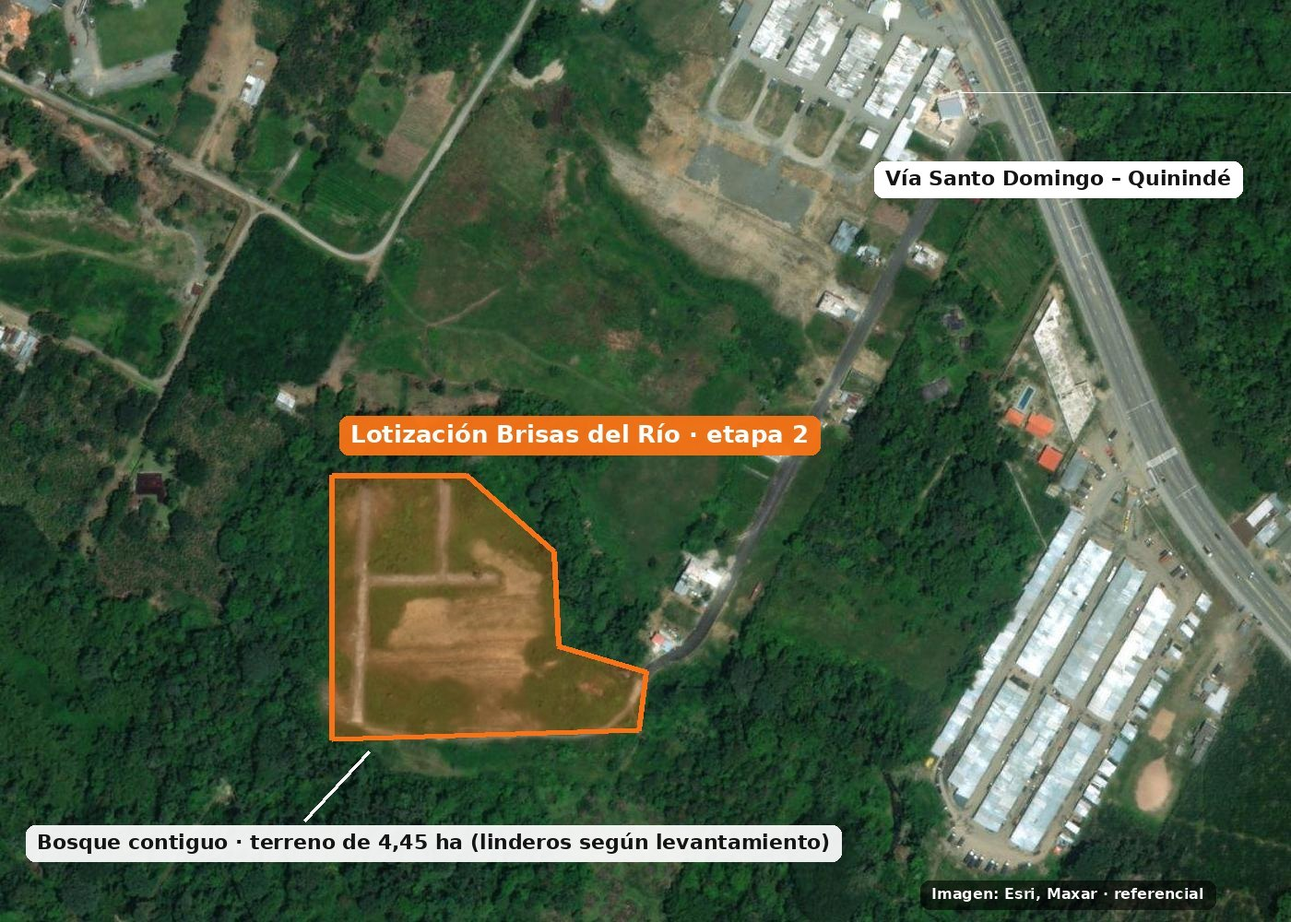
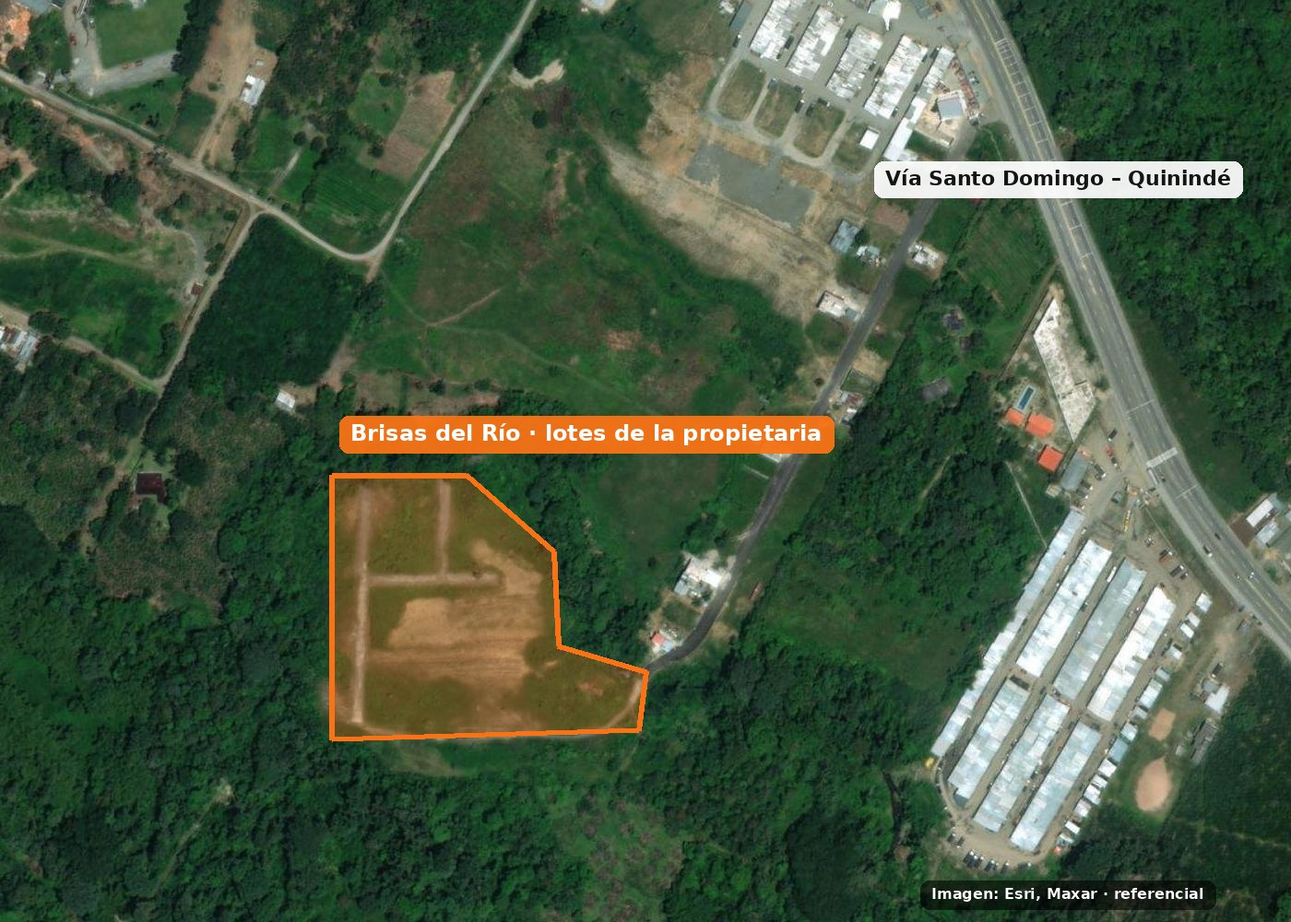
Constructores: 25 casas, sin dibujo, satelital actualizado
Claude-Session: https://claude.ai/code/session_01LAutxU6Rea3FeNJzKxbLiz

Changed region(s): [[0.0, 0.837, 0.6757, 0.961], [0.2764, 0.434, 0.645, 0.496]]

diff --git a/assets/constructores-DcApklXl.js b/assets/constructores-DcApklXl.js
@@ -1,0 +1,4 @@
+import{A as e,C as t,D as n,E as r,F as i,I as a,L as o,M as s,N as c,O as l,P as u,S as d,T as f,_ as p,a as ee,b as m,c as h,d as g,f as _,g as v,h as y,i as te,j as b,k as x,l as S,m as C,n as w,o as T,p as E,r as D,s as O,t as k,u as A,v as ne,w as j,x as M,y as N}from"./alert-DtUDTtHU.js";import{t as re}from"./house-v-FLwWWV.js";var P=o(a(),1),F={...P},I=F.useInsertionEffect,ie=I&&I!==F.useLayoutEffect?I:e=>e();function L(e){let t=u(ae).current;return t.next=e,ie(t.effect),t.trampoline}function ae(){let e={next:void 0,callback:oe,trampoline:(...t)=>e.callback?.(...t),effect:()=>{e.callback=e.next}};return e}function oe(){}var R=typeof document<`u`?P.useLayoutEffect:()=>{};function se(e,t){return function(n,...r){let i=new URL(e);return i.searchParams.set(`code`,n.toString()),r.forEach(e=>i.searchParams.append(`args[]`,e)),`${t} error #${n}; visit ${i} for the full message.`}}var ce=se(`https://base-ui.com/production-error`,`Base UI`),z={name:`badge-dollar-sign`,size:24,node:[[`path`,{d:`M3.85 8.62a4 4 0 0 1 4.78-4.77 4 4 0 0 1 6.74 0 4 4 0 0 1 4.78 4.78 4 4 0 0 1 0 6.74 4 4 0 0 1-4.77 4.78 4 4 0 0 1-6.75 0 4 4 0 0 1-4.78-4.77 4 4 0 0 1 0-6.76Z`,key:`3c2336`}],[`path`,{d:`M16 8h-6a2 2 0 1 0 0 4h4a2 2 0 1 1 0 4H8`,key:`1h4pet`}],[`path`,{d:`M12 18V6`,key:`zqpxq5`}]]};z.node;var le=M(z),B={name:`calendar-clock`,size:24,node:[[`path`,{d:`M16 14v2.2l1.6 1`,key:`fo4ql5`}],[`path`,{d:`M16 2v3`,key:`otl347`}],[`path`,{d:`M21 7.338V5a2 2 0 00-2-2H5a2 2 0 00-2 2v14a2 2 0 002 2h2.338`,key:`7hb8p4`}],[`path`,{d:`M3 9h5.859`,key:`numkqi`}],[`path`,{d:`M8 2v3`,key:`1ioesn`}],[`circle`,{cx:`16`,cy:`16`,r:`6`,key:`qoo3c4`}]]};B.node;var V=M(B),H={name:`hammer`,size:24,node:[[`path`,{d:`m15 12-9.373 9.373a1 1 0 0 1-3.001-3L12 9`,key:`1hayfq`}],[`path`,{d:`m18 15 4-4`,key:`16gjal`}],[`path`,{d:`m21.5 11.5-1.914-1.914A2 2 0 0 1 19 8.172v-.344a2 2 0 0 0-.586-1.414l-1.657-1.657A6 6 0 0 0 12.516 3H9l1.243 1.243A6 6 0 0 1 12 8.485V10l2 2h1.172a2 2 0 0 1 1.414.586L18.5 14.5`,key:`15ts47`}]]};H.node;var ue=M(H),U={name:`hard-hat`,size:24,node:[[`path`,{d:`M10 10V5a1 1 0 0 1 1-1h2a1 1 0 0 1 1 1v5`,key:`1p9q5i`}],[`path`,{d:`M14 6a6 6 0 0 1 6 6v3`,key:`1hnv84`}],[`path`,{d:`M4 15v-3a6 6 0 0 1 6-6`,key:`9ciidu`}],[`rect`,{x:`2`,y:`15`,width:`20`,height:`4`,rx:`1`,key:`g3x8cw`}]]};U.node;var de=M(U),W={name:`key-round`,size:24,node:[[`path`,{d:`M2.586 17.414A2 2 0 0 0 2 18.828V21a1 1 0 0 0 1 1h3a1 1 0 0 0 1-1v-1a1 1 0 0 1 1-1h1a1 1 0 0 0 1-1v-1a1 1 0 0 1 1-1h.172a2 2 0 0 0 1.414-.586l.814-.814a6.5 6.5 0 1 0-4-4z`,key:`1s6t7t`}],[`circle`,{cx:`16.5`,cy:`7.5`,r:`.5`,fill:`currentColor`,key:`w0ekpg`}]]};W.node;var fe=M(W),G={name:`ruler`,size:24,node:[[`path`,{d:`M21.3 15.3a2.4 2.4 0 0 1 0 3.4l-2.6 2.6a2.4 2.4 0 0 1-3.4 0L2.7 8.7a2.41 2.41 0 0 1 0-3.4l2.6-2.6a2.41 2.41 0 0 1 3.4 0Z`,key:`icamh8`}],[`path`,{d:`m14.5 12.5 2-2`,key:`inckbg`}],[`path`,{d:`m11.5 9.5 2-2`,key:`fmmyf7`}],[`path`,{d:`m8.5 6.5 2-2`,key:`vc6u1g`}],[`path`,{d:`m17.5 15.5 2-2`,key:`wo5hmg`}]]};G.node;var pe=M(G),K={name:`shield-check`,size:24,node:[[`path`,{d:`M20 13c0 5-3.5 7.5-7.66 8.95a1 1 0 0 1-.67-.01C7.5 20.5 4 18 4 13V6a1 1 0 0 1 1-1c2 0 4.5-1.2 6.24-2.72a1.17 1.17 0 0 1 1.52 0C14.51 3.81 17 5 19 5a1 1 0 0 1 1 1z`,key:`oel41y`}],[`path`,{d:`m9 12 2 2 4-4`,key:`dzmm74`}]]};K.node;var me=M(K),q={name:`trees`,size:24,node:[[`path`,{d:`M10 10v.2A3 3 0 0 1 8.9 16H5a3 3 0 0 1-1-5.8V10a3 3 0 0 1 6 0Z`,key:`1l6gj6`}],[`path`,{d:`M7 16v6`,key:`1a82de`}],[`path`,{d:`M13 19v3`,key:`13sx9i`}],[`path`,{d:`M12 19h8.3a1 1 0 0 0 .7-1.7L18 14h.3a1 1 0 0 0 .7-1.7L16 9h.2a1 1 0 0 0 .8-1.7L13 3l-1.4 1.5`,key:`1sj9kv`}]]};q.node;var he=M(q),ge=`data-valid`,_e=`data-invalid`,ve={badInput:!1,customError:!1,patternMismatch:!1,rangeOverflow:!1,rangeUnderflow:!1,stepMismatch:!1,tooLong:!1,tooShort:!1,typeMismatch:!1,valid:null,valueMissing:!1},ye={disabled:!1,valid:null,touched:!1,dirty:!1,filled:!1,focused:!1},be={valid(e){return e===null?null:e?{[ge]:``}:{[_e]:``}}},xe={invalid:void 0,name:void 0,validityData:{state:ve,errors:[],error:``,value:``,initialValue:null},setValidityData:c,disabled:void 0,setTouched:c,setDirty:c,setFilled:c,setFocused:c,focusOwnerRef:{current:void 0},validationMode:`onSubmit`,shouldValidateOnChange:()=>!1,state:ye,registerFieldControl:c,validation:{getValidationProps:(e,t=s)=>t,inputRef:{current:null},registeredInputs:new Map,registerInput:c,getInputControl:()=>null,commit:async()=>{},change:c}},Se=P.createContext(xe);function J(e=!0){let t=P.useContext(Se);if(t.setValidityData===c&&!e)throw Error(ce(28));return t}var Ce=P.createContext({elementRef:{current:null},formRef:{current:{fields:new Map}},errors:{},clearErrors:c,validationMode:`onSubmit`,submitCountRef:{current:0}});function we(){return P.useContext(Ce)}function Te(){let[,e]=P.useState({});return P.useCallback(()=>{e({})},[])}var Ee=0;function De(e,t=`mui`){let n=P.useRef(void 0),r=Te(),i=e??n.current;return P.useEffect(()=>{n.current??(Ee+=1,n.current=`${t}-${Ee}`,e??r())},[e,t,r]),i}var Oe=F.useId;function ke(e,t){if(Oe!==void 0){let n=Oe();return e??(t?`${t}-${n}`:n)}return De(e,t)}function Ae(e){return ke(e,`base-ui`)}var je=P.createContext({controlId:void 0,registerControlId:c,resetControlId:c,labelId:void 0,setLabelId:c,messageIds:[],setMessageIds:c,getDescriptionProps:e=>e});function Me(){return P.useContext(je)}function Ne(e={}){let{id:t,enabled:n=!0}=e,{controlId:r,registerControlId:i,resetControlId:a}=Me(),o=Ae(),s=u(()=>Symbol()),l=P.useRef(!1),d=P.useRef(!1),f=L(()=>{l.current&&i!==c&&(l.current=!1,i(s.current,void 0))});return R(()=>{if(!n||i===c){f();return}let e;if(t!==void 0)d.current=!0,e=t;else if(d.current)e=o;else{a();return}e===void 0?f():(l.current=!0,i(s.current,e))},[t,n,i,a,o,s,f]),R(()=>f,[f]),(n?r:void 0)??t??o}function Pe(e){P.useEffect(e,b)}var Y=0,Fe=class e{static create(){return new e}currentId=Y;start(e,t){this.clear(),this.currentId=setTimeout(()=>{this.currentId=Y,t()},e)}isStarted(){return this.currentId!==Y}clear=()=>{this.currentId!==Y&&(clearTimeout(this.currentId),this.currentId=Y)};disposeEffect=()=>this.clear};function Ie(){let e=u(Fe.create).current;return Pe(e.disposeEffect),e}function Le(e,t,n){let{setFocused:r,focusOwnerRef:i}=J(),a=L(t=>{(t?!e:i.current===a)&&(i.current=t&&a,n?.(t),r(t))});return R(()=>{let e=t.current;return e?.getRootNode()?.activeElement===e&&a(!0),()=>a(!1)},[e,t,a]),a}function Re(e,t,n,r,i=!0,a){let{registerFieldControl:o}=J(),s=u(()=>Symbol());R(()=>{let c=s.current;i?o(c,{controlRef:e,getValue:r,id:t,name:a,value:n}):o(c,void 0)},[e,i,r,t,a,o,s,n]),R(()=>{let e=s.current;return()=>{o(e,void 0)}},[o,s])}function ze(e,t){let n=P.useRef(e),r=L(t);R(()=>{n.current!==e&&r(n.current),n.current=e},[e,r])}function Be(e,t,n,r){let i=!1,a=!1,o=r??s;return{reason:e,event:t??new Event(`base-ui`),cancel(){i=!0},allowPropagation(){a=!0},get isCanceled(){return i},get isPropagationAllowed(){return a},trigger:n,...o}}var Ve=`none`,He=P.forwardRef(function(t,n){let{render:r,className:i,id:a,name:o,value:s,disabled:c=!1,onValueChange:l,defaultValue:u,autoFocus:d=!1,style:f,...p}=t,{state:ee,name:m,disabled:h,setTouched:g,setDirty:_,validityData:v,setFilled:y,validationMode:te,validation:b}=J(),{clearErrors:x,elementRef:S,submitCountRef:C}=we(),w=h||c,T=m??o,E={...ee,disabled:w},{labelId:D}=Me(),O=Ne({id:a}),k=s!==void 0,A=s==null?void 0:String(s),ne=L(()=>b.inputRef.current?.value);Re(b.inputRef,O,A,ne,!w,o),R(()=>{let e=A??b.inputRef.current?.value;e!==void 0&&y(e!==``)},[A,u,b.inputRef,y]),ze(A,()=>{A!==void 0&&(x(T),_(A!==(v.initialValue??``)),b.change(A))});let j=P.useRef(null),M=Le(w,j),N=Ie();return e(`input`,t,{ref:[n,j],state:E,props:[{id:O,disabled:w,name:T,ref:b.inputRef,"aria-labelledby":D,autoFocus:d,...k?{value:s}:{defaultValue:u},onChange(e){let t=e.currentTarget.value,n=Be(Ve,e.nativeEvent);l?.(t,n),k||(_(t!==(v.initialValue??``)),y(t!==``),!e.nativeEvent.defaultPrevented&&!n.isCanceled&&(x(T),b.change(t)))},onFocus(){M(!0)},onBlur(e){if(g(!0),M(!1),te===`onBlur`){let t=e.currentTarget.value;b.commit(t),k&&queueMicrotask(()=>{let e=b.inputRef.current?.value;e!==void 0&&e!==t&&e!==(v.initialValue??``)&&b.commit(e)})}},onKeyDown(e){if(e.currentTarget.tagName===`INPUT`&&e.key===`Enter`){g(!0);let t=e.currentTarget.value,n=e.currentTarget.form;if(n&&n===S.current&&!e.defaultPrevented){let t=e.currentTarget,n=C.current;N.start(0,()=>{C.current===n&&b.commit(t.value)})}else b.commit(t)}}},p,e=>b.getValidationProps(w,e)],stateAttributesMapping:be})}),X=n(),Ue=P.forwardRef(function(e,t){return(0,X.jsx)(He,{ref:t,...e})}),We=i();function Z({className:e,type:t,...n}){return(0,X.jsx)(Ue,{type:t,"data-slot":`input`,className:x(`h-8 w-full min-w-0 rounded-lg border border-input bg-transparent px-2.5 py-1 text-base transition-colors outline-none file:inline-flex file:h-6 file:border-0 file:bg-transparent file:text-sm file:font-medium file:text-foreground placeholder:text-muted-foreground focus-visible:border-ring focus-visible:ring-3 focus-visible:ring-ring/50 disabled:pointer-events-none disabled:cursor-not-allowed disabled:bg-input/50 disabled:opacity-50 aria-invalid:border-destructive aria-invalid:ring-3 aria-invalid:ring-destructive/20 md:text-sm dark:bg-input/30 dark:disabled:bg-input/80 dark:aria-invalid:border-destructive/50 dark:aria-invalid:ring-destructive/40`,e),...n})}function Ge({className:e,...t}){return(0,X.jsx)(`textarea`,{"data-slot":`textarea`,className:x(`flex field-sizing-content min-h-16 w-full rounded-lg border border-input bg-transparent px-2.5 py-2 text-base transition-colors outline-none placeholder:text-muted-foreground focus-visible:border-ring focus-visible:ring-3 focus-visible:ring-ring/50 disabled:cursor-not-allowed disabled:bg-input/50 disabled:opacity-50 aria-invalid:border-destructive aria-invalid:ring-3 aria-invalid:ring-destructive/20 md:text-sm dark:bg-input/30 dark:disabled:bg-input/80 dark:aria-invalid:border-destructive/50 dark:aria-invalid:ring-destructive/40`,e),...t})}function Q({className:e,...t}){return(0,X.jsx)(`label`,{"data-slot":`label`,className:x(`flex items-center gap-2 text-sm leading-none font-medium select-none group-data-[disabled=true]:pointer-events-none group-data-[disabled=true]:opacity-50 peer-disabled:cursor-not-allowed peer-disabled:opacity-50`,e),...t})}var $=`h-9 w-full rounded-lg border border-input bg-transparent px-2.5 text-sm`,Ke=[[`Área`,`≈ 72 m² de construcción, una planta, en lote de 200 m²`],[`Programa`,`3 dormitorios, 2 baños completos, sala, comedor, cocina, lavandería y garaje descubierto`],[`Estructura`,`Hormigón armado sismorresistente según NEC-15, con planos firmados por ingeniero`],[`Paredes`,`Bloque enlucido y pintado por dentro y por fuera, o sistema equivalente certificado`],[`Cubierta`,`Losa o cubierta metálica con aislamiento térmico y cielo raso, apta para lluvia intensa`],[`Pisos y baños`,`Cerámica en toda la casa; antideslizante en zonas húmedas; ducha con punto de agua caliente`],[`Cocina`,`Mesón con fregadero, muebles bajos, puntos para cocina y refrigeradora`],[`Carpintería`,`Puerta principal segura; ventanas de aluminio y vidrio con protección`],[`Instalaciones`,`Eléctricas con tablero y breakers, hidrosanitarias completas y medidores`],[`Exterior`,`Cerramiento frontal, acera de ingreso y patio posterior nivelado`]];function qe(){let[e,n]=(0,P.useState)({op:`B · Llave en mano integral`,cant:`Las 25 (4 tandas)`,mod:`Una planta ≈ 72 m²`}),i=t=>r=>n({...e,[t]:r.target.value});return(0,X.jsxs)(X.Fragment,{children:[(0,X.jsx)(`div`,{className:`bg-primary px-4 py-2 text-center text-xs text-primary-foreground`,children:`Convocatoria abierta · Cotizaciones hasta el lunes 7 de diciembre de 2026 · Sin costo ni obligación`}),(0,X.jsx)(v,{brand:`Residencial Aurora`,sub:`Convocatoria a constructores · Santo Domingo`,links:[[`#alcance`,`Alcance`],[`#casa`,`La casa`],[`#plazos`,`Plazos`],[`#pagos`,`Pagos`],[`#cotizar`,`Cotizar`]]}),(0,X.jsxs)(`main`,{children:[(0,X.jsx)(C,{accent:`bg-gradient-to-br from-emerald-50 via-background to-amber-50`,eyebrow:`Solicitud de cotización · RFQ-BR-2026-01`,title:`Buscamos un constructor que entregue casas buenas, a costo bajo y a tiempo.`,lead:`Hasta 25 casas de una planta, llave en mano, en lotes propios de 200 m² en la urbanización Brisas del Río, Santo Domingo de los Tsáchilas. Precio fijo por casa, fechas de entrega por tanda y garantías. Reglas iguales para todos.`,image:`img/brisas-satelite.jpg`,imageAlt:`Vista satelital de los lotes de Brisas del Río`,ctas:(0,X.jsxs)(X.Fragment,{children:[(0,X.jsx)(`a`,{href:`#cotizar`,className:N({size:`lg`}),children:`Enviar mi cotización`}),(0,X.jsx)(`a`,{href:`#proceso`,className:N({size:`lg`,variant:`outline`}),children:`Fechas del proceso`})]})}),(0,X.jsx)(ne,{items:[{icon:(0,X.jsx)(re,{className:`size-4`}),value:`25`,label:`casas en 4 tandas`},{icon:(0,X.jsx)(pe,{className:`size-4`}),value:`≈ 72 m²`,label:`una planta, 3 dormitorios`},{icon:(0,X.jsx)(he,{className:`size-4`}),value:`200 m²`,label:`lote por casa, urbanizado`},{icon:(0,X.jsx)(le,{className:`size-4`}),value:`Precio fijo`,label:`por casa terminada`},{icon:(0,X.jsx)(V,{className:`size-4`}),value:`7 dic`,label:`cierre de cotizaciones`}]}),(0,X.jsx)(p,{id:`resumen`,kicker:`El proyecto`,title:`Lo que hay que construir, en una mirada.`,children:(0,X.jsxs)(`div`,{className:`grid gap-6 md:grid-cols-2`,children:[(0,X.jsxs)(`div`,{className:`space-y-4 text-muted-foreground`,children:[(0,X.jsx)(`p`,{children:`La propietaria del terreno es la promotora: pone los lotes, organiza papeles y vende las casas. Lo técnico se contrata completo, por eso buscamos un constructor que entregue cada casa lista para escriturar.`}),(0,X.jsx)(`p`,{children:`Las casas se venden a familias con crédito de vivienda de interés social (BIESS y banca con tasa preferencial). El banco paga cuando la casa está terminada y avaluada: casas sencillas, bien hechas, con costo controlado y entrega puntual.`}),(0,X.jsxs)(k,{children:[(0,X.jsx)(de,{}),(0,X.jsx)(D,{children:`Lo que más pesa al elegir`}),(0,X.jsx)(w,{children:`Costo total por casa terminada y cumplimiento de fechas. Una oferta barata sin plazo firme no nos sirve.`})]})]}),(0,X.jsxs)(`div`,{className:`grid gap-4`,children:[(0,X.jsxs)(`figure`,{children:[(0,X.jsx)(`img`,{src:`img/brisas-satelite.jpg`,alt:`Vista satelital de los lotes de Brisas del Río`,className:`w-full rounded-xl border shadow-sm`}),(0,X.jsx)(`figcaption`,{className:`mt-2 text-xs text-muted-foreground`,children:`Vista satelital (Esri, Maxar). Perímetro aproximado de la lotización; linderos exactos según levantamiento.`})]}),(0,X.jsxs)(`figure`,{children:[(0,X.jsx)(`img`,{src:`img/plano-conjunto.jpg`,alt:`Plano general referencial del conjunto`,className:`w-full rounded-xl border shadow-sm`}),(0,X.jsx)(`figcaption`,{className:`mt-2 text-xs text-muted-foreground`,children:`Plano referencial. Lotes de la propietaria en las manzanas 4, 5 y 6.`})]})]})]})}),(0,X.jsx)(`div`,{className:`bg-muted/40`,children:(0,X.jsx)(p,{id:`alcance`,kicker:`Alcance`,title:`Qué significa «llave en mano» aquí.`,intro:`Cotice las dos opciones si puede. Si solo hace obra, cotice la A.`,children:(0,X.jsxs)(`div`,{className:`grid gap-5 md:grid-cols-2`,children:[(0,X.jsx)(y,{icon:(0,X.jsx)(ue,{className:`size-4`}),badge:`Opción A`,title:`Obra llave en mano`,desc:`La propietaria entrega planos aprobados; el constructor hace todo lo demás.`,children:(0,X.jsx)(g,{items:[`Replanteo, movimiento de tierras y cimentación según estudio de suelos`,`Estructura, mampostería, cubierta, instalaciones y acabados completos`,`Acometidas de agua, alcantarillado y luz con medidores`,`Cerramiento, limpieza final y retiro de escombros`,`Planos «como construido» y manual de uso`,`Trámites de habitabilidad o recepción municipal`]})}),(0,X.jsx)(y,{highlight:!0,icon:(0,X.jsx)(fe,{className:`size-4`}),badge:`Opción B · preferida`,title:`Llave en mano integral`,desc:`Todo lo de la opción A, más el diseño y los permisos.`,children:(0,X.jsx)(g,{items:[`Estudio de suelos y topografía de los lotes`,`Diseño arquitectónico, estructural, eléctrico e hidrosanitario (NEC)`,`Aprobación de planos y permiso de construcción en el GAD de Santo Domingo`,`Apoyo con el registro como vivienda de interés social (SIIDUVI)`,`Costo y semanas de diseño y permisos, indicados por separado`]})}),(0,X.jsx)(y,{title:`No incluye (lo pone la propietaria)`,children:(0,X.jsx)(g,{no:!0,items:[`El terreno y sus escrituras`,`La venta de las casas y la relación con compradores y bancos`,`Escrituras y gastos notariales de los compradores`]})}),(0,X.jsx)(y,{title:`Alternativa que también puede cotizar`,desc:`Casa de dos plantas de unos 105 m²: planta baja social y garaje; planta alta con 3 dormitorios y 2 baños. Cotícela aparte con el mismo formato.`})]})})}),(0,X.jsx)(p,{id:`casa`,kicker:`Especificación mínima`,title:`La casa que hay que cotizar.`,children:(0,X.jsxs)(`div`,{className:`grid gap-6 md:grid-cols-[1.4fr_1fr]`,children:[(0,X.jsx)(d,{children:(0,X.jsx)(t,{children:(0,X.jsxs)(te,{children:[(0,X.jsx)(h,{children:(0,X.jsxs)(S,{children:[(0,X.jsx)(O,{children:`Elemento`}),(0,X.jsx)(O,{children:`Mínimo exigido`})]})}),(0,X.jsx)(ee,{children:Ke.map(([e,t])=>(0,X.jsxs)(S,{children:[(0,X.jsx)(T,{className:`font-medium align-top`,children:e}),(0,X.jsx)(T,{className:`whitespace-normal text-muted-foreground`,children:t})]},e))})]})})}),(0,X.jsxs)(`div`,{className:`space-y-5`,children:[(0,X.jsxs)(`figure`,{children:[(0,X.jsx)(`img`,{src:`img/planta-un-piso.jpg`,alt:`Planta referencial de la casa`,className:`w-full rounded-xl border shadow-sm`}),(0,X.jsx)(`figcaption`,{className:`mt-2 text-xs text-muted-foreground`,children:`Planta referencial. Puede proponer una distribución más eficiente.`})]}),(0,X.jsx)(y,{title:`Por qué importa el costo`,desc:`Para que la familia acceda al crédito de interés social, la casa terminada debe avaluarse dentro de los topes del programa (2026: hasta USD 71.504,70 para el crédito BIESS al 2,99 %). Cada dólar ahorrado en obra hace la casa más vendible.`})]})]})}),(0,X.jsx)(`div`,{className:`bg-muted/40`,children:(0,X.jsx)(p,{id:`plazos`,kicker:`Plazos`,title:`Fechas de entrega claras, con multa.`,intro:`Se construye por tandas. Cada tanda arranca cuando hay compradores firmados, así nadie construye casas que no se venden.`,children:(0,X.jsxs)(`div`,{className:`grid gap-5 md:grid-cols-2`,children:[(0,X.jsxs)(d,{children:[(0,X.jsxs)(f,{children:[(0,X.jsx)(r,{children:`Plazos máximos (puede ofrecer menos)`}),(0,X.jsx)(j,{children:`Meses desde la orden de inicio. Las tandas pueden traslaparse.`})]}),(0,X.jsx)(t,{children:(0,X.jsx)(E,{unit:`mes`,total:20,rows:[{label:`Tanda 1 · 4`,start:0,end:6,note:`0–6 · incluye casa modelo`},{label:`Tanda 2 · 7`,start:4,end:10},{label:`Tanda 3 · 7`,start:8,end:14},{label:`Tanda 4 · 7`,start:12,end:18}]})})]}),(0,X.jsx)(y,{icon:(0,X.jsx)(V,{className:`size-4`}),title:`Reglas de plazo`,children:(0,X.jsx)(g,{items:[`Inicio de obra: máximo 30 días después del permiso y la orden de inicio`,`Tanda 1 entregada en 6 meses como máximo`,`Cada tanda siguiente en 6 meses desde su orden de inicio`,`Cronograma valorado por tanda como anexo del contrato`,`Multa: 1 por mil del valor de la tanda por día, tope 10 %`,`Más de 90 días de atraso: se termina el contrato y se sigue con otro`,`Prórroga solo por fuerza mayor documentada o cambios pedidos por escrito`]})})]})})}),(0,X.jsx)(p,{id:`pagos`,kicker:`Pagos y elección`,title:`Cómo se paga y cómo elegimos.`,children:(0,X.jsxs)(`div`,{className:`grid gap-5 md:grid-cols-2`,children:[(0,X.jsx)(y,{icon:(0,X.jsx)(me,{className:`size-4`}),title:`Pagos y garantías`,desc:`Condiciones de referencia; las ofertas que pidan menos anticipo o financien parte de la obra suman puntos.`,children:(0,X.jsx)(g,{items:[`Precio fijo por casa terminada, sin reajustes salvo cambios por escrito`,`Anticipo máximo del 20 % por tanda, con póliza de buen uso por el 100 %`,`Pagos mensuales contra avance certificado por un fiscalizador de la propietaria`,`Retención del 5 % hasta 6 meses después de entregar la tanda`,`Póliza de fiel cumplimiento por el 5 % de cada tanda`,`Facturas a nombre de la propietaria, pagos por transferencia`,`Diferencias: primero a mediación en CIDES`]})}),(0,X.jsxs)(`div`,{className:`grid gap-5`,children:[(0,X.jsxs)(d,{children:[(0,X.jsx)(f,{children:(0,X.jsx)(r,{children:`Peso de cada criterio`})}),(0,X.jsx)(t,{children:(0,X.jsx)(A,{rows:[{label:`Costo total`,pct:40,text:`40 %`},{label:`Plazo firme`,pct:25,text:`25 %`},{label:`Experiencia`,pct:20,text:`20 %`},{label:`Pago y garantías`,pct:15,text:`15 %`}]})})]}),(0,X.jsx)(y,{title:`Requisitos para participar`,children:(0,X.jsx)(g,{items:[`RUC activo y cumplimiento con SRI e IESS`,`Al menos 10 viviendas terminadas en 5 años, con referencias verificables`,`Ingeniero o arquitecto responsable con registro SENESCYT`,`Capacidad de emitir pólizas de anticipo y fiel cumplimiento`,`Deseable: registro de promotor en SIIDUVI`]})})]})]})}),(0,X.jsx)(`div`,{className:`bg-muted/40`,children:(0,X.jsxs)(p,{id:`proceso`,kicker:`Calendario`,title:`Fechas del proceso.`,children:[(0,X.jsx)(`div`,{className:`grid gap-3 md:grid-cols-5`,children:[[`Desde hoy`,`Convocatoria abierta`,`Visita a los lotes previa cita.`],[`Hasta 30 nov`,`Preguntas por escrito`,`Respondemos a todos por igual.`],[`7 dic 2026`,`Cierre de cotizaciones`,`Con el formulario o por correo.`],[`Semana del 14 dic`,`Comparativo y finalistas`,`Entrevista y visita a sus obras.`],[`Enero 2027`,`Decisión y contrato`,`Comunicamos el resultado a todos.`]].map(([e,n,r],i)=>(0,X.jsx)(d,{size:`sm`,children:(0,X.jsxs)(t,{className:`space-y-1`,children:[(0,X.jsx)(l,{variant:i===2?`default`:`outline`,children:e}),(0,X.jsx)(`div`,{className:`pt-2 font-medium`,children:n}),(0,X.jsx)(`div`,{className:`text-xs text-muted-foreground`,children:r})]})},n))}),(0,X.jsx)(`p`,{className:`mt-5 text-xs text-muted-foreground`,children:`Cotizar no genera obligación para ninguna parte. La propietaria puede declarar desierto el proceso. No se recibe ni entrega dinero en esta etapa.`})]})}),(0,X.jsx)(p,{id:`cotizar`,kicker:`Cotizar`,title:`Envíe su cotización.`,intro:`Llene lo que tenga. El botón abre su correo con la cotización armada; adjunte ahí su presupuesto detallado y su cronograma.`,children:(0,X.jsx)(d,{children:(0,X.jsx)(t,{children:(0,X.jsxs)(`form`,{onSubmit:t=>{t.preventDefault();let n=[[`Empresa`,e.emp],[`RUC`,e.ruc],[`Contacto`,e.con],[`Opción`,e.op],[`Casas`,e.cant],[`Modelo`,e.mod],[`Precio por casa sin IVA (USD)`,e.pc],[`Costo por m² (USD)`,e.m2],[`Diseño y permisos (USD)`,e.dis],[`Meses tanda 1`,e.p1],[`Meses total`,e.pt],[`Anticipo (%)`,e.ant],[`Experiencia`,e.exp],[`Observaciones`,e.obs]].map(([e,t])=>`${e}: ${t||`-`}`).join(`
+`)+`
+
+Adjunto: presupuesto detallado y cronograma.`;window.location.href=`mailto:info@neytorres.com?subject=${encodeURIComponent(`Cotización RFQ-BR-2026-01 · `+(e.emp||`Constructor`))}&body=${encodeURIComponent(n)}`},className:`grid gap-5`,children:[(0,X.jsxs)(`div`,{className:`grid gap-4 md:grid-cols-3`,children:[(0,X.jsxs)(`div`,{className:`grid gap-1.5`,children:[(0,X.jsx)(Q,{htmlFor:`emp`,children:`Empresa o profesional`}),(0,X.jsx)(Z,{id:`emp`,required:!0,onChange:i(`emp`)})]}),(0,X.jsxs)(`div`,{className:`grid gap-1.5`,children:[(0,X.jsx)(Q,{htmlFor:`ruc`,children:`RUC`}),(0,X.jsx)(Z,{id:`ruc`,inputMode:`numeric`,onChange:i(`ruc`)})]}),(0,X.jsxs)(`div`,{className:`grid gap-1.5`,children:[(0,X.jsx)(Q,{htmlFor:`con`,children:`Contacto y teléfono`}),(0,X.jsx)(Z,{id:`con`,required:!0,onChange:i(`con`)})]}),(0,X.jsxs)(`div`,{className:`grid gap-1.5`,children:[(0,X.jsx)(Q,{htmlFor:`op`,children:`Opción`}),(0,X.jsxs)(`select`,{id:`op`,className:$,onChange:i(`op`),children:[(0,X.jsx)(`option`,{children:`B · Llave en mano integral`}),(0,X.jsx)(`option`,{children:`A · Obra llave en mano`}),(0,X.jsx)(`option`,{children:`A y B`})]})]}),(0,X.jsxs)(`div`,{className:`grid gap-1.5`,children:[(0,X.jsx)(Q,{htmlFor:`cant`,children:`Casas que cotiza`}),(0,X.jsxs)(`select`,{id:`cant`,className:$,onChange:i(`cant`),children:[(0,X.jsx)(`option`,{children:`Las 25 (4 tandas)`}),(0,X.jsx)(`option`,{children:`Solo tanda 1 (4 casas)`}),(0,X.jsx)(`option`,{children:`Tandas 1 y 2 (11 casas)`})]})]}),(0,X.jsxs)(`div`,{className:`grid gap-1.5`,children:[(0,X.jsx)(Q,{htmlFor:`mod`,children:`Modelo`}),(0,X.jsxs)(`select`,{id:`mod`,className:$,onChange:i(`mod`),children:[(0,X.jsx)(`option`,{children:`Una planta ≈ 72 m²`}),(0,X.jsx)(`option`,{children:`Dos plantas ≈ 105 m²`}),(0,X.jsx)(`option`,{children:`Ambos`})]})]}),(0,X.jsxs)(`div`,{className:`grid gap-1.5`,children:[(0,X.jsx)(Q,{htmlFor:`pc`,children:`Precio por casa sin IVA (USD)`}),(0,X.jsx)(Z,{id:`pc`,required:!0,inputMode:`decimal`,onChange:i(`pc`)})]}),(0,X.jsxs)(`div`,{className:`grid gap-1.5`,children:[(0,X.jsx)(Q,{htmlFor:`m2`,children:`Costo por m² (USD)`}),(0,X.jsx)(Z,{id:`m2`,inputMode:`decimal`,onChange:i(`m2`)})]}),(0,X.jsxs)(`div`,{className:`grid gap-1.5`,children:[(0,X.jsx)(Q,{htmlFor:`dis`,children:`Diseño y permisos, opción B (USD)`}),(0,X.jsx)(Z,{id:`dis`,inputMode:`decimal`,onChange:i(`dis`)})]}),(0,X.jsxs)(`div`,{className:`grid gap-1.5`,children:[(0,X.jsx)(Q,{htmlFor:`p1`,children:`Meses para la tanda 1`}),(0,X.jsx)(Z,{id:`p1`,required:!0,inputMode:`numeric`,onChange:i(`p1`)})]}),(0,X.jsxs)(`div`,{className:`grid gap-1.5`,children:[(0,X.jsx)(Q,{htmlFor:`pt`,children:`Meses para las 25`}),(0,X.jsx)(Z,{id:`pt`,inputMode:`numeric`,onChange:i(`pt`)})]}),(0,X.jsxs)(`div`,{className:`grid gap-1.5`,children:[(0,X.jsx)(Q,{htmlFor:`ant`,children:`Anticipo pedido (%)`}),(0,X.jsx)(Z,{id:`ant`,inputMode:`decimal`,onChange:i(`ant`)})]})]}),(0,X.jsxs)(`div`,{className:`grid gap-4 md:grid-cols-2`,children:[(0,X.jsxs)(`div`,{className:`grid gap-1.5`,children:[(0,X.jsx)(Q,{htmlFor:`exp`,children:`Viviendas entregadas en 5 años y dónde`}),(0,X.jsx)(Ge,{id:`exp`,onChange:i(`exp`)})]}),(0,X.jsxs)(`div`,{className:`grid gap-1.5`,children:[(0,X.jsx)(Q,{htmlFor:`obs`,children:`Acabados, propuestas de ahorro u observaciones`}),(0,X.jsx)(Ge,{id:`obs`,onChange:i(`obs`)})]})]}),(0,X.jsxs)(`div`,{className:`flex flex-wrap items-center gap-4`,children:[(0,X.jsxs)(`button`,{type:`submit`,className:N({size:`lg`}),children:[(0,X.jsx)(m,{}),` Abrir correo con mi cotización`]}),(0,X.jsx)(`span`,{className:`text-xs text-muted-foreground`,children:`Se envía a info@neytorres.com · Asunto: «Cotización RFQ-BR-2026-01»`})]})]})})})})]}),(0,X.jsxs)(_,{children:[(0,X.jsxs)(`p`,{children:[`Residencial Aurora es un nombre de trabajo para un proyecto en la urbanización Brisas del Río, km 5½ vía a Quinindé, Santo Domingo de los Tsáchilas, Ecuador. `,(0,X.jsx)(`a`,{className:`underline`,href:`https://www.google.com/maps/search/?api=1&query=-0.2100768,-79.1777728`,children:`Ver ubicación`}),` · `,(0,X.jsx)(`a`,{className:`underline`,href:`./`,children:`Página del proyecto`})]}),(0,X.jsx)(`p`,{children:`Medidas, distribución y especificaciones son referenciales y se ajustarán a la aprobación municipal y a los requisitos de vivienda de interés social. Esta convocatoria no es una oferta de contrato.`})]})]})}(0,We.createRoot)(document.getElementById(`root`)).render((0,X.jsx)(P.StrictMode,{children:(0,X.jsx)(qe,{})}));

diff --git a/constructores.html b/constructores.html
@@ -1,8 +1,8 @@
 <!doctype html>
 <html lang="es"><head><meta charset="UTF-8"><meta name="viewport" content="width=device-width, initial-scale=1.0">
-<title>Cotice llave en mano: 22 casas en Santo Domingo · Residencial Aurora</title><meta name="description" content="Convocatoria a constructores: hasta 22 casas de una planta (72 m²) en lotes de 200 m², Santo Domingo. Precio fijo, entregas por tandas, plazos y garantías claras. Cierre 7 de diciembre de 2026."><meta property="og:title" content="Cotice llave en mano: 22 casas en Santo Domingo · Residencial Aurora"><meta property="og:description" content="Convocatoria a constructores: hasta 22 casas de una planta (72 m²) en lotes de 200 m², Santo Domingo. Precio fijo, entregas por tandas, plazos y garantías claras. Cierre 7 de diciembre de 2026."><meta property="og:type" content="website">
-<meta property="og:image" content="https://neyt.github.io/residencial-aurora/img/casa-un-piso.jpg">
-  <script type="module" crossorigin src="./assets/constructores-QhTv3E6C.js"></script>
+<title>Cotice llave en mano: 25 casas en Santo Domingo · Residencial Aurora</title><meta name="description" content="Convocatoria a constructores: hasta 25 casas de una planta (72 m²) en lotes de 200 m², Santo Domingo. Precio fijo, entregas por tandas, plazos y garantías claras. Cierre 7 de diciembre de 2026."><meta property="og:title" content="Cotice llave en mano: 25 casas en Santo Domingo · Residencial Aurora"><meta property="og:description" content="Convocatoria a constructores: hasta 25 casas de una planta (72 m²) en lotes de 200 m², Santo Domingo. Precio fijo, entregas por tandas, plazos y garantías claras. Cierre 7 de diciembre de 2026."><meta property="og:type" content="website">
+<meta property="og:image" content="https://neyt.github.io/residencial-aurora/img/brisas-satelite.jpg">
+  <script type="module" crossorigin src="./assets/constructores-DcApklXl.js"></script>
   <link rel="modulepreload" crossorigin href="./assets/alert-DtUDTtHU.js">
   <link rel="modulepreload" crossorigin href="./assets/house-v-FLwWWV.js">
   <link rel="stylesheet" crossorigin href="./assets/alert-Bkcv5hva.css">
